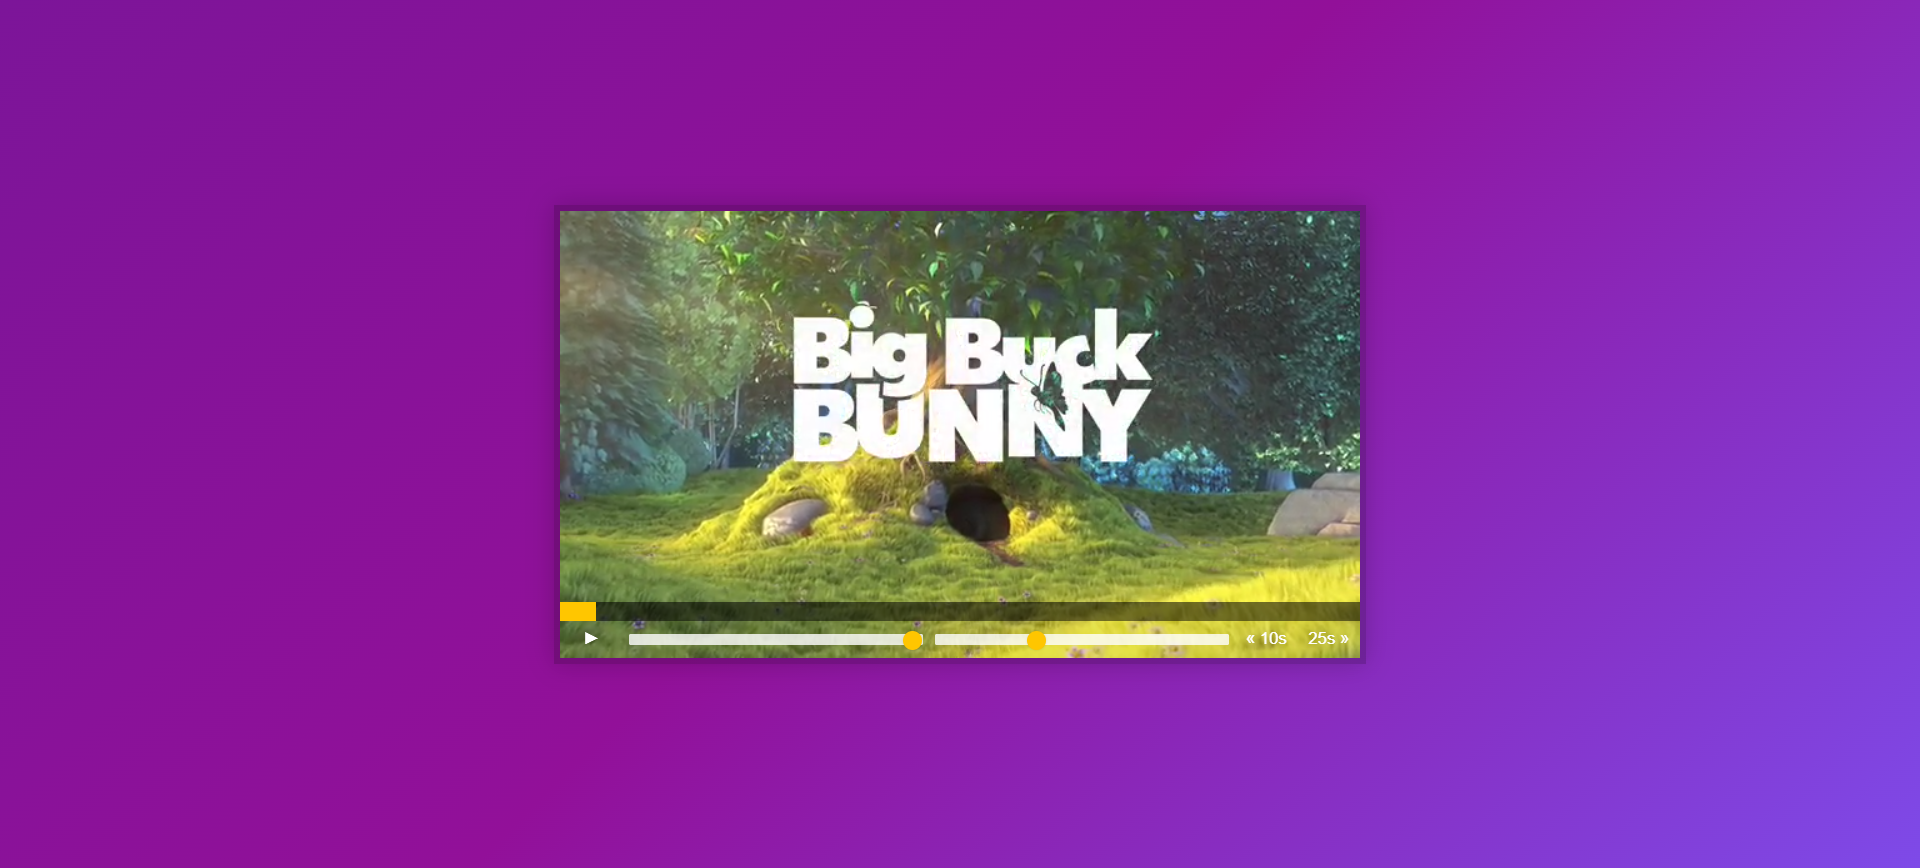
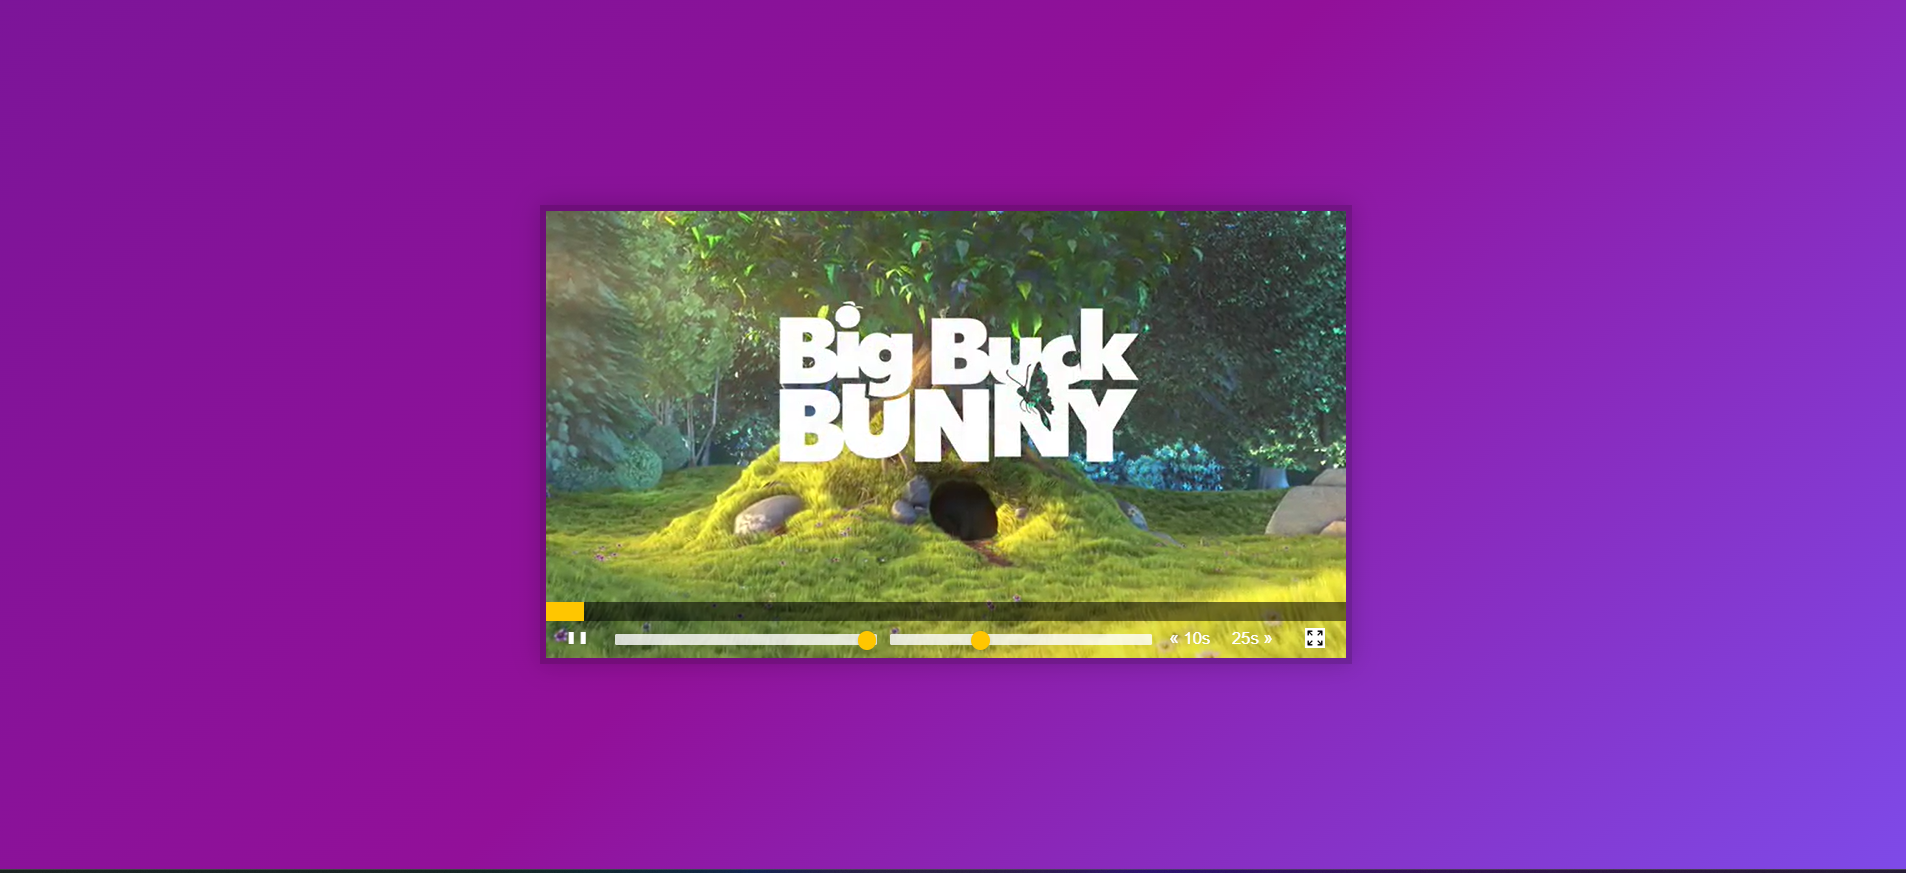
Implement fullscreen mode functionality for custom video player

Changed region(s): [[0.2786, 0.2177, 0.712, 0.7776], [0.0, 0.9954, 1.0, 1.0]]

diff --git a/11 - Custom Video Player/scripts.js b/11 - Custom Video Player/scripts.js
@@ -6,6 +6,7 @@ const progressBar = player.querySelector('.progress__filled');
 const toggle = player.querySelector('.toggle');
 const skipButtons = player.querySelectorAll('[data-skip]');
 const ranges = player.querySelectorAll('.player__slider');
+const fullscreenButton = document.getElementById('fullscreenButton');
 
 // Function to toggle play/pause of the video
 function togglePlay() {
@@ -49,6 +50,17 @@ function scrub(e) {
   video.currentTime = scrubTime;
 }
 
+// Function to toggle fullscreen mode
+function toggleFullscreen() {
+  if (video.requestFullscreen) {
+    video.requestFullscreen();
+  } else if (video.mozRequestFullScreen) {
+    video.mozRequestFullScreen();
+  } else if (video.webkitRequestFullscreen) {
+    video.webkitRequestFullscreen();
+  }
+}
+
 // Event listeners to toggle play/pause on video click and update button icon
 video.addEventListener('click', togglePlay);
 video.addEventListener('play', updateButton); // Update button on video play
@@ -69,3 +81,5 @@ progress.addEventListener('click', scrub); // Scrub on click
 progress.addEventListener('mousemove', (e) => mousedown && scrub(e)); // Scrub on mousemove if mousedown
 progress.addEventListener('mousedown', () => mousedown = true); // Set mousedown to true on mouse down
 progress.addEventListener('mouseup', () => mousedown = false); // Set mousedown to false on mouse up
+
+fullscreenButton.addEventListener('click', toggleFullscreen);

diff --git a/11 - Custom Video Player/index.html b/11 - Custom Video Player/index.html
@@ -20,6 +20,7 @@
        <input type="range" name="playbackRate" class="player__slider" min="0.5" max="2" step="0.1" value="1">
        <button data-skip="-10" class="player__button">« 10s</button>
        <button data-skip="25" class="player__button">25s »</button>
+       <button class="fullscreen toggle" id="fullscreenButton"><img src="full-screen-38-32.png" alt="Fullscreen"></button>
      </div>
    </div>
 

diff --git a/11 - Custom Video Player/style.css b/11 - Custom Video Player/style.css
@@ -104,6 +104,23 @@ body {
   flex-basis: 50%;
 }
 
+#fullscreenButton {
+  background: none;
+  border: 0;
+  line-height: 1;
+  color: white;
+  text-align: center;
+  outline: 0;
+  padding: 0;
+  cursor: pointer;
+  max-width: 50px;
+
+}
+img {
+  background-color: white;
+  height: 16px;
+
+}
 /* unholy css to style input type="range" */
 
 input[type=range] {
